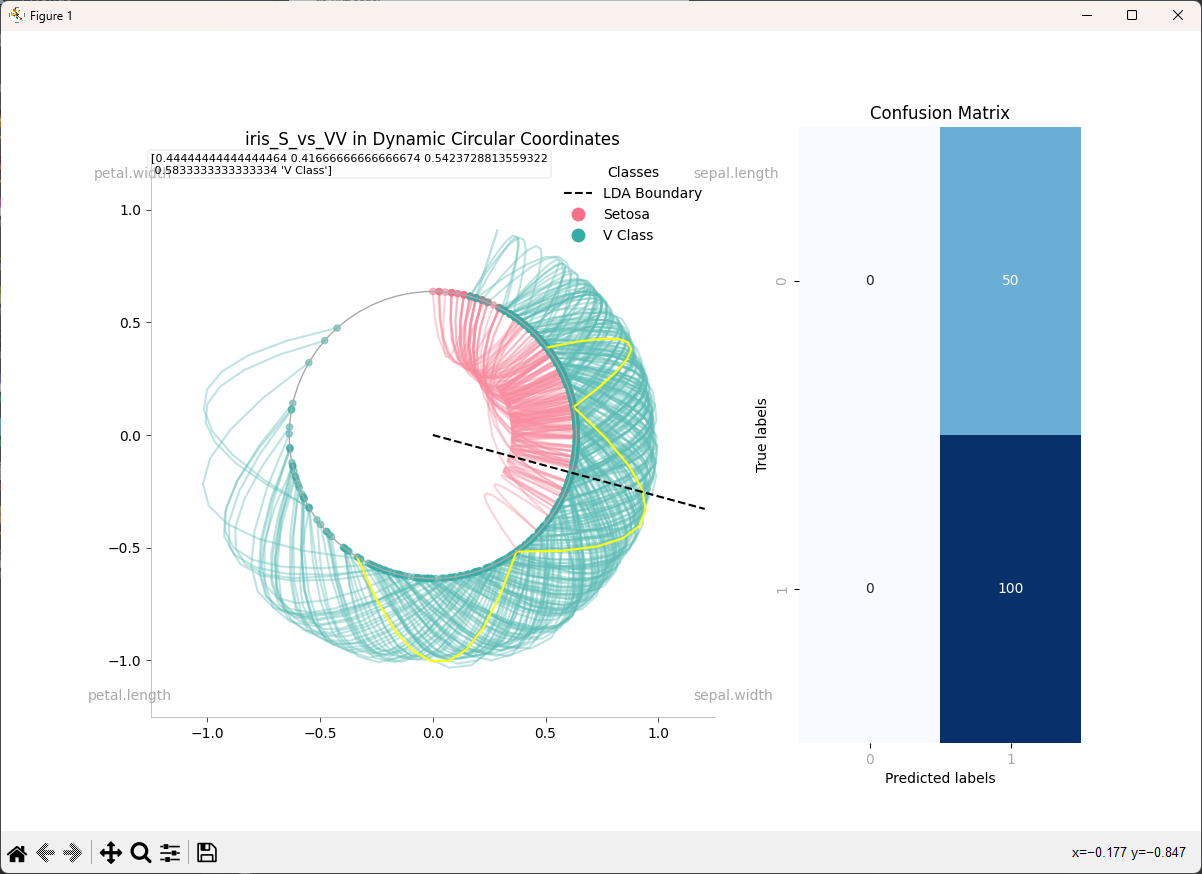
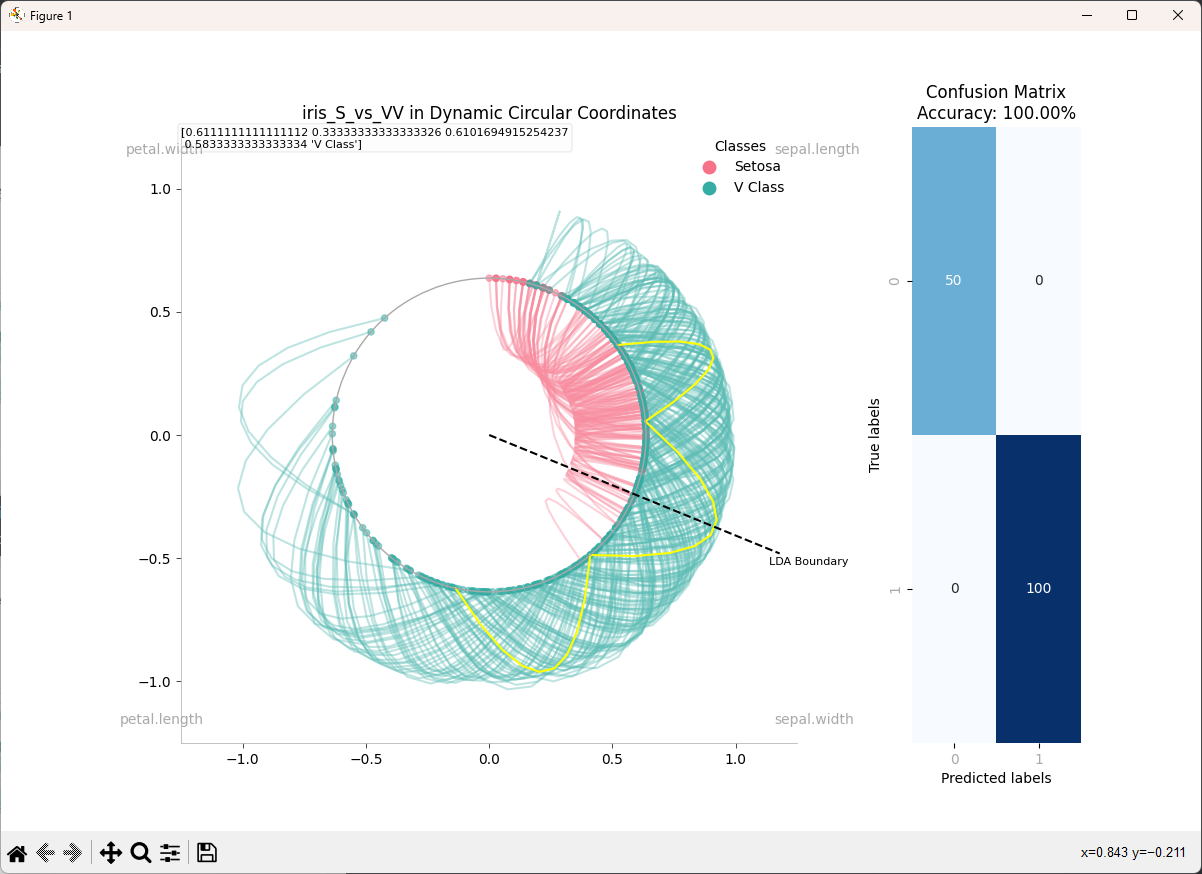
Accuracy print and current image

diff --git a/circular_plotter.py b/circular_plotter.py
@@ -239,11 +239,13 @@ class SCCWithChords:
         X = self.data.drop(columns='class').values
         y = self.data['class'].values
         y_pred = lda.predict(X)
+        accuracy = np.mean(y == y_pred)
         cm = confusion_matrix(y, y_pred)
+        accuracy_title = f"Confusion Matrix\nAccuracy: {accuracy:.2%}"
         sns.heatmap(cm, annot=True, fmt="d", cmap="Blues", ax=ax2, cbar=False)
         ax2.set_xlabel('Predicted labels')
         ax2.set_ylabel('True labels')
-        ax2.set_title('Confusion Matrix')
+        ax2.set_title(accuracy_title)
 
         # Create a textbox for hover details
         self.hover_info_box = ax.text(0.0, 0.0, '', transform=ax.transAxes, fontsize=8, 
